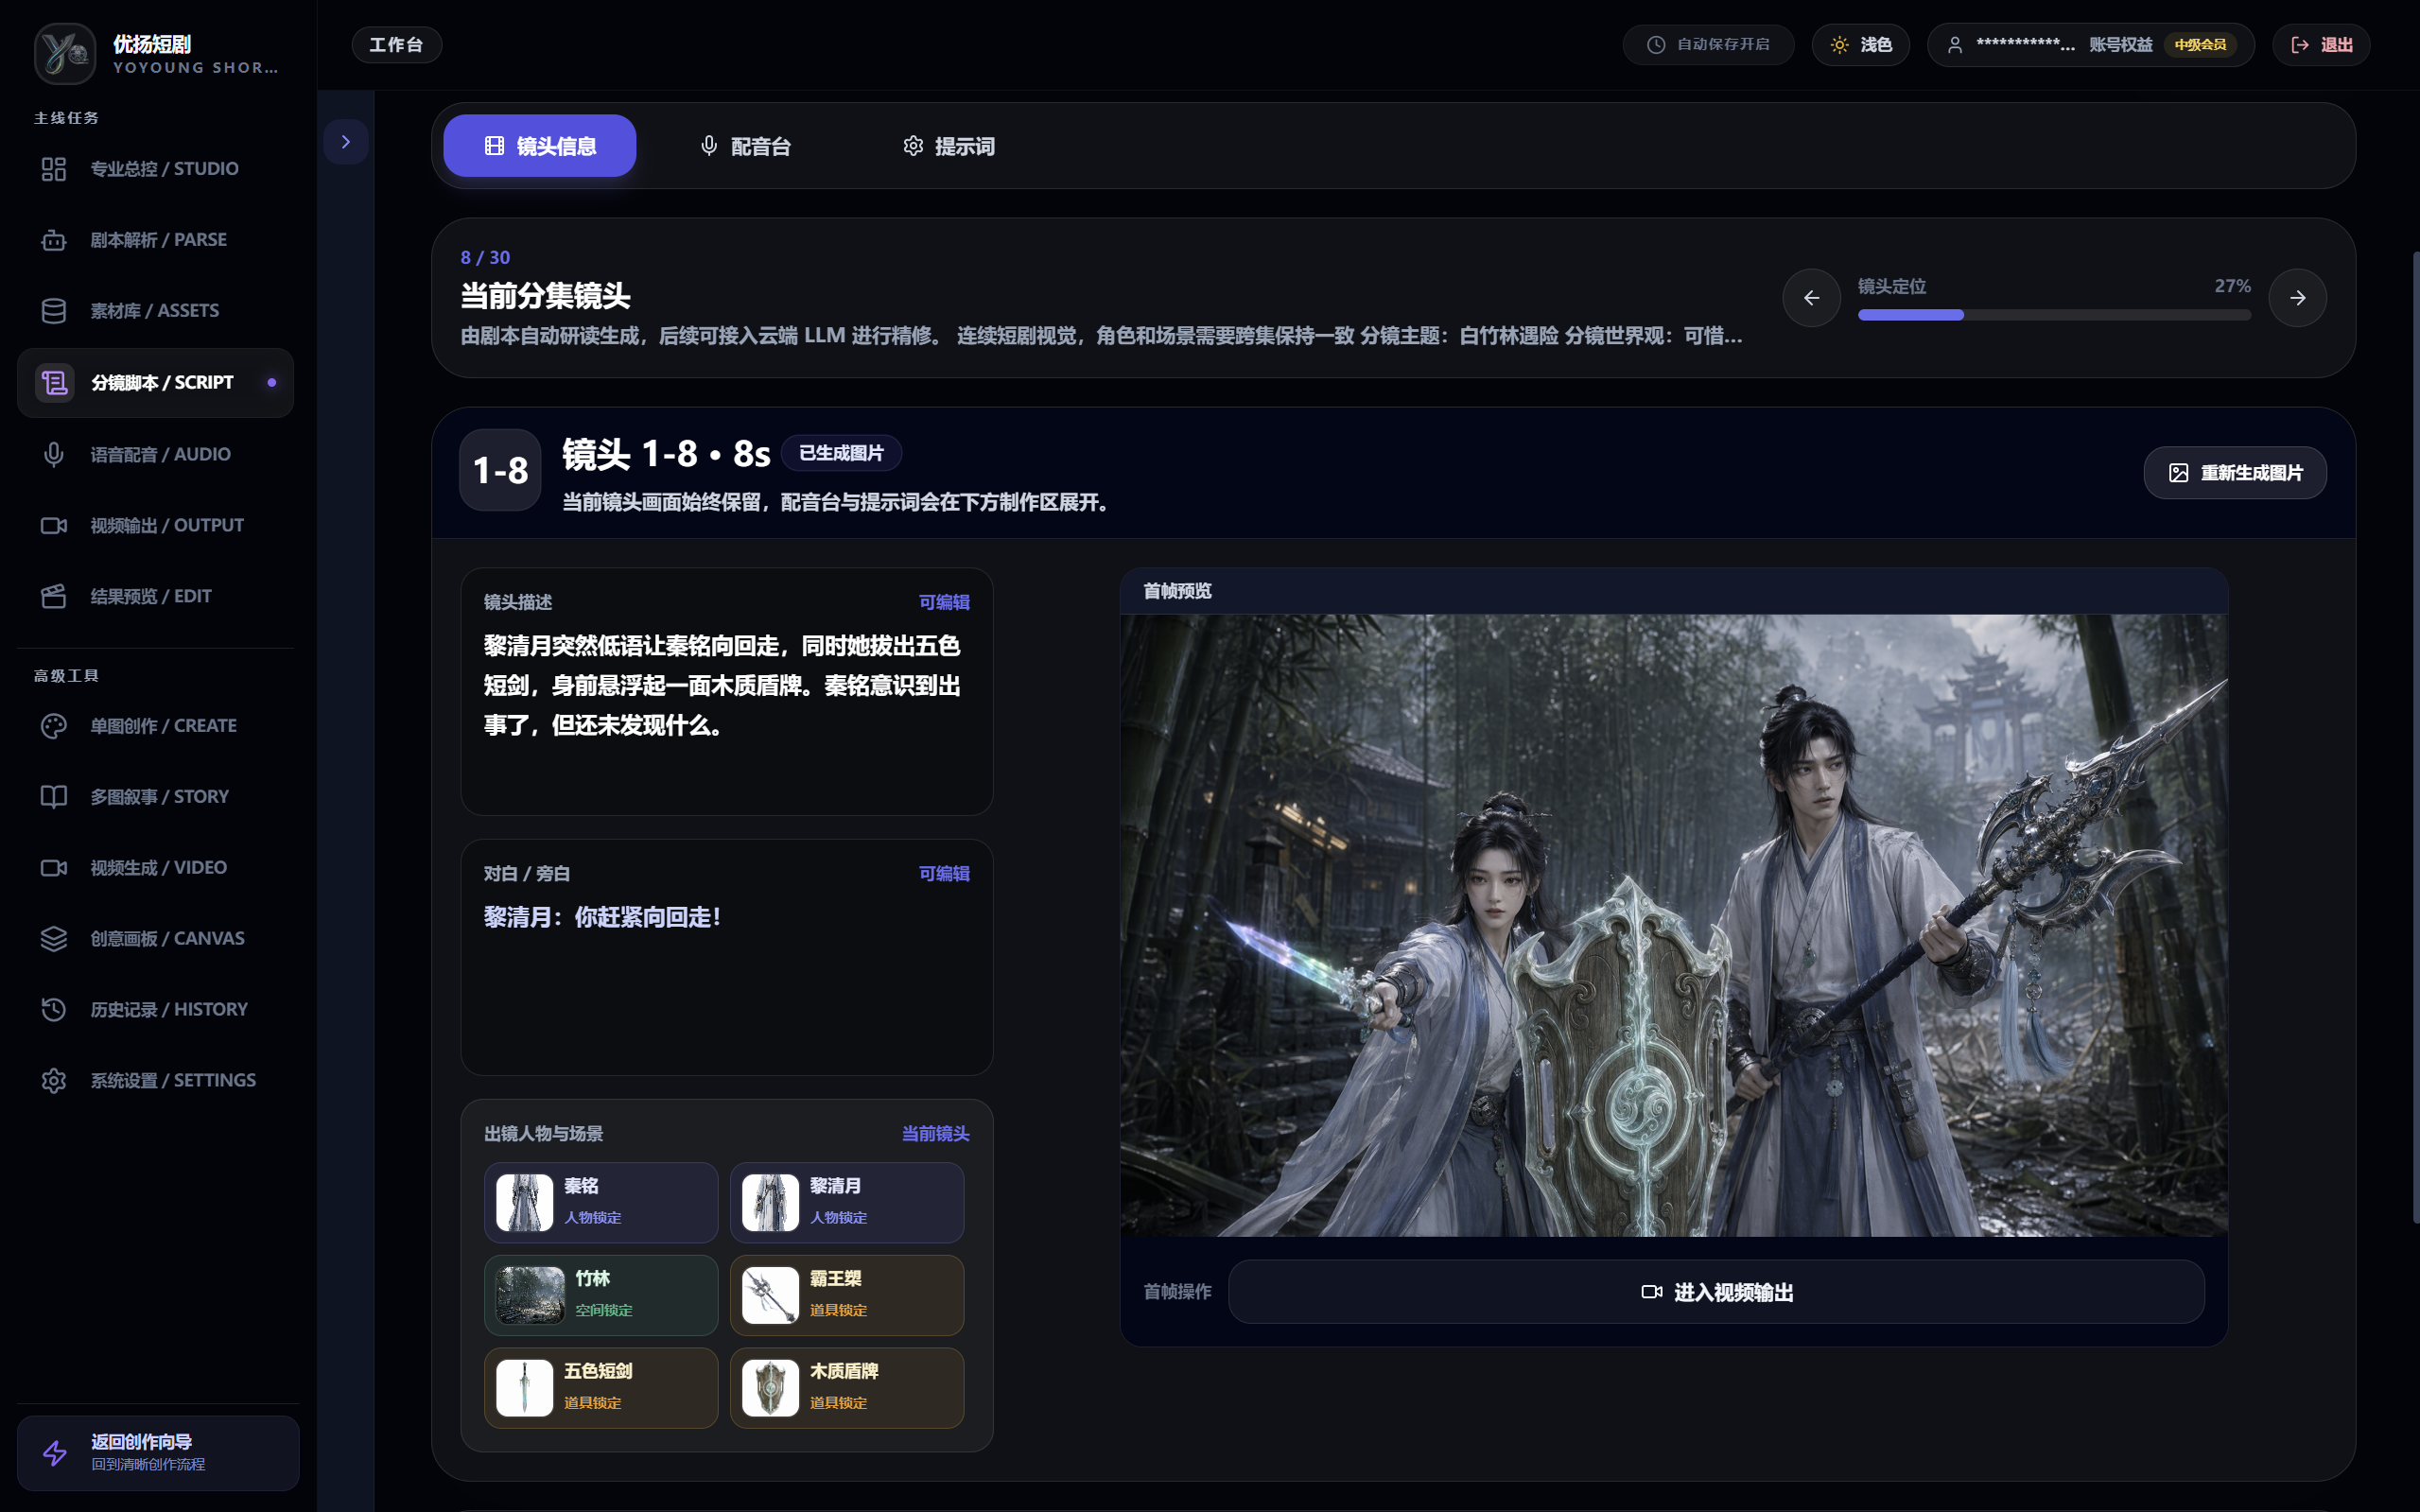
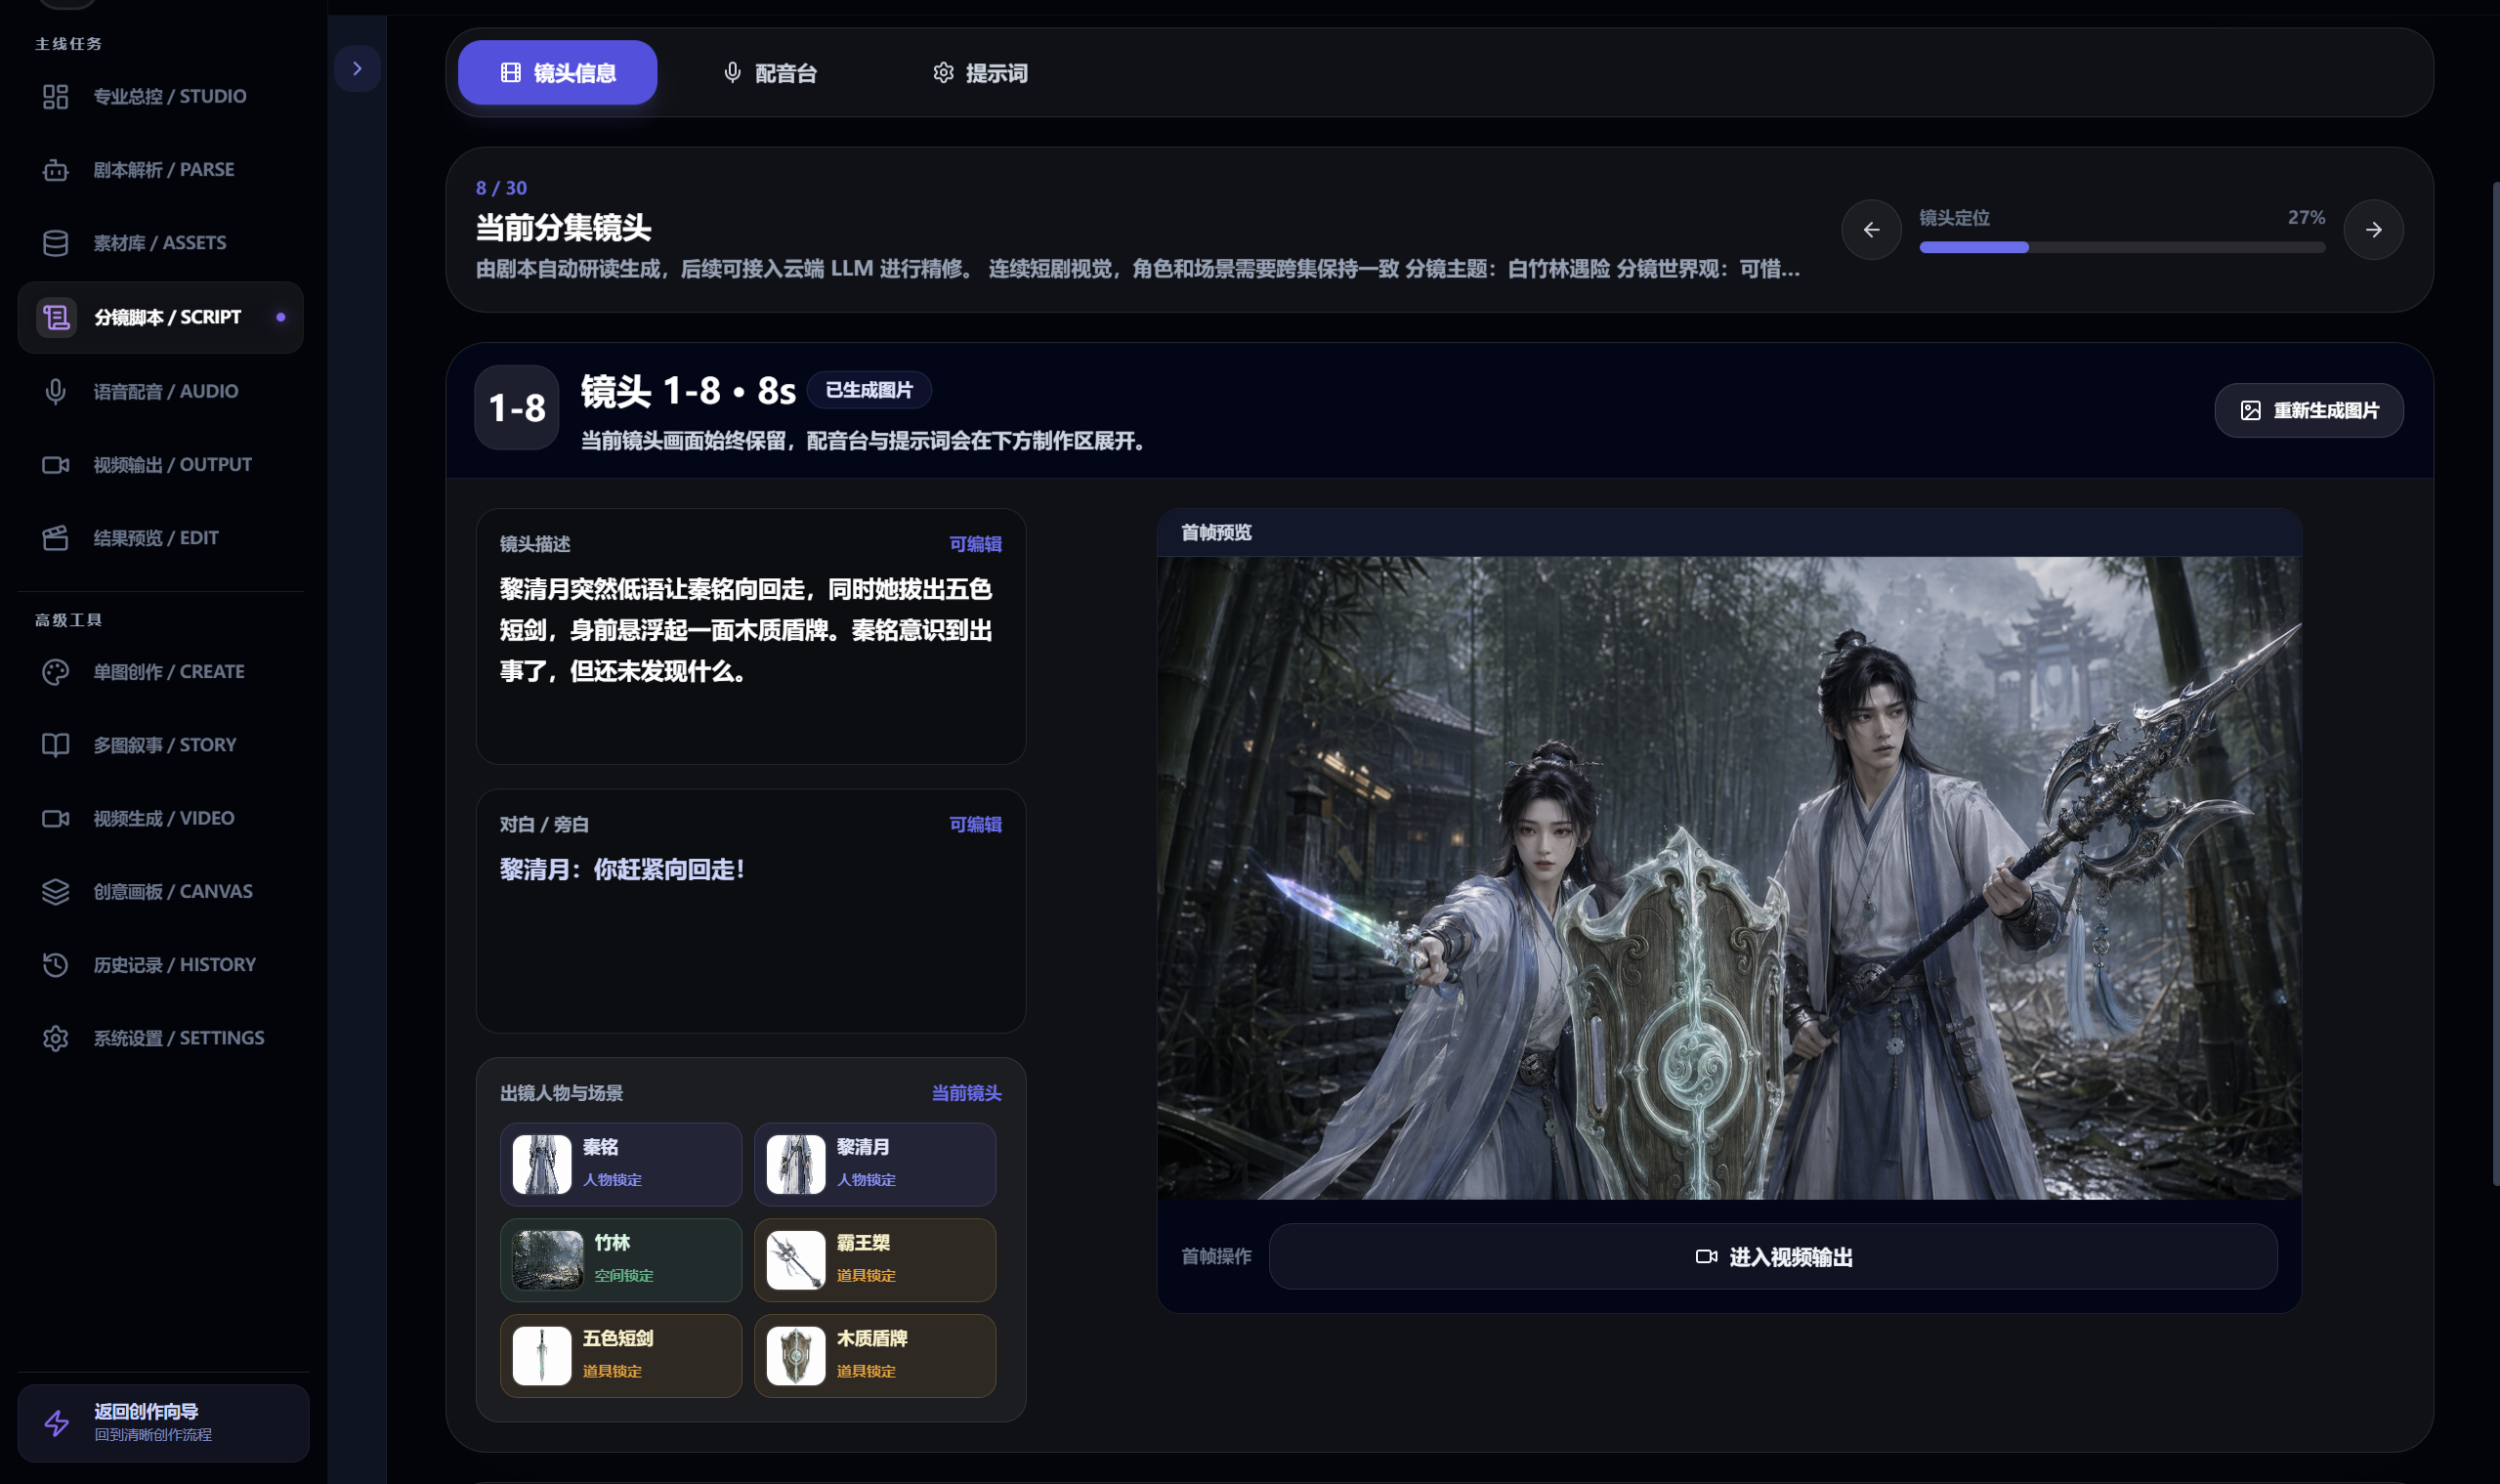
Refine showcase assets and prompt examples

diff --git a/full-preview.html b/full-preview.html
@@ -426,6 +426,30 @@
             </div>
           </article>
 
+          <article class="card">
+            <img src="./assets/v2-showcase/asset-prompt-character-light.png" alt="Character prompt detail" />
+            <div class="card-body">
+              <h3>Character：人物资产提示词</h3>
+              <p>人物资产不只保存一张图，还会沉淀身份定位、服饰材质、面部识别点和连续性规则，让角色在后续镜头中更容易保持一致。</p>
+            </div>
+          </article>
+
+          <article class="card">
+            <img src="./assets/v2-showcase/asset-prompt-scene-light.png" alt="Scene prompt detail" />
+            <div class="card-body">
+              <h3>Scene：场景资产提示词</h3>
+              <p>场景资产会把空间结构、入口方向、主体物、光线氛围和故事世界规则整理成可复用提示词，而不是只保留一张参考图。</p>
+            </div>
+          </article>
+
+          <article class="card">
+            <img src="./assets/v2-showcase/asset-prompt-prop-light.png" alt="Prop prompt detail" />
+            <div class="card-body">
+              <h3>Prop：道具资产提示词</h3>
+              <p>道具资产会锁定形状、材质、尺寸比例、颜色分布和风格特征，降低后续分镜和视频生成中的关键物品漂移。</p>
+            </div>
+          </article>
+
           <article class="card" id="story">
             <img src="./assets/v2-showcase/story-multiframe-dark.png" alt="Story" />
             <div class="card-body">
@@ -523,7 +547,7 @@
         <h2>工作流程</h2>
         <p class="lead">YoYoung Shorts 优漾短剧最重要的不是某一个按钮多强，而是这些功能区之间是连着的。</p>
         <div class="flow-box">
-          剧本输入 → Parse 剧本解析 → Assets 资产矩阵 → Story 多图叙事 → Script 系列分镜 → Image 批量画面 → Video 视频结果
+          剧本输入 → Parse 剧本解析 → Assets 资产矩阵 → Prompt 资产提示词 → Story 多图叙事 → Script 系列分镜 → Image 批量画面 → Video 视频结果
         </div>
         <div class="text-panel" style="margin-top: 18px;">
           <p>

diff --git a/preview.html b/preview.html
@@ -328,7 +328,7 @@
 
     <section class="section">
       <h3>核心展示</h3>
-      <p class="lead">2.0 展示重点按真实创作顺序组织：剧本解析、资产矩阵、多图叙事、分镜生成、图片生成和视频输出。</p>
+      <p class="lead">2.0 展示重点按真实创作顺序组织：剧本解析、资产矩阵、资产提示词、多图叙事、分镜生成、图片生成和视频输出。</p>
       <div class="cards">
         <article class="card">
           <img src="./assets/v2-showcase/script-parse-dark.png" alt="Script parsing workspace" />
@@ -342,6 +342,27 @@
           <div class="card-body">
             <h4>Assets：资产矩阵作为创作锚点</h4>
             <p>角色、场景、道具会持续进入后续生成流程，这也是它区别于普通单点出图工具的核心逻辑。</p>
+          </div>
+        </article>
+        <article class="card">
+          <img src="./assets/v2-showcase/asset-prompt-character-light.png" alt="Character asset prompt detail" />
+          <div class="card-body">
+            <h4>Character：人物提示词锁定识别点</h4>
+            <p>人物资产会沉淀身份、服饰、面部识别点和连续性规则，帮助后续镜头保持同一角色。</p>
+          </div>
+        </article>
+        <article class="card">
+          <img src="./assets/v2-showcase/asset-prompt-scene-light.png" alt="Scene asset prompt detail" />
+          <div class="card-body">
+            <h4>Scene：场景提示词保留空间结构</h4>
+            <p>场景资产会记录空间关系、视觉锚点和环境规则，让同一故事世界可以持续复用。</p>
+          </div>
+        </article>
+        <article class="card">
+          <img src="./assets/v2-showcase/asset-prompt-prop-light.png" alt="Prop asset prompt detail" />
+          <div class="card-body">
+            <h4>Prop：道具提示词控制材质比例</h4>
+            <p>道具资产会固定形状、材质、比例和风格要点，避免后续生成时关键物品漂移。</p>
           </div>
         </article>
         <article class="card">